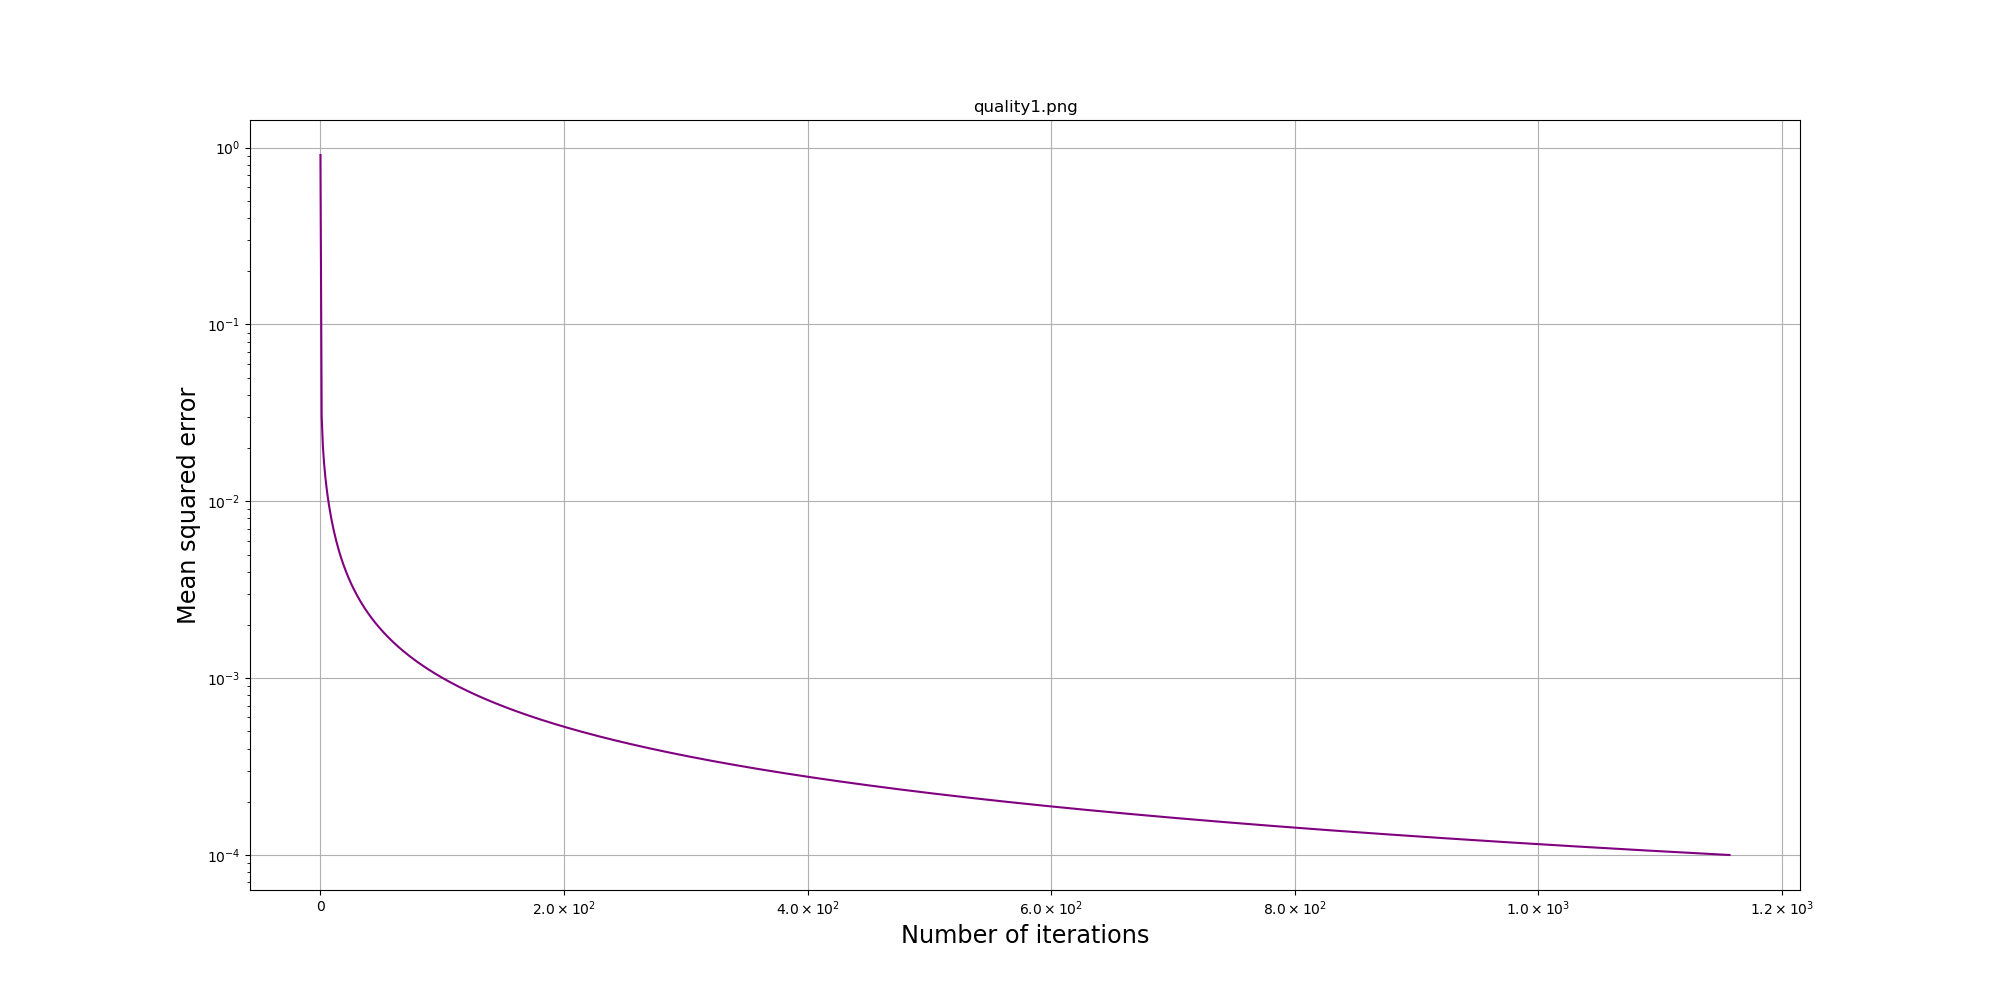
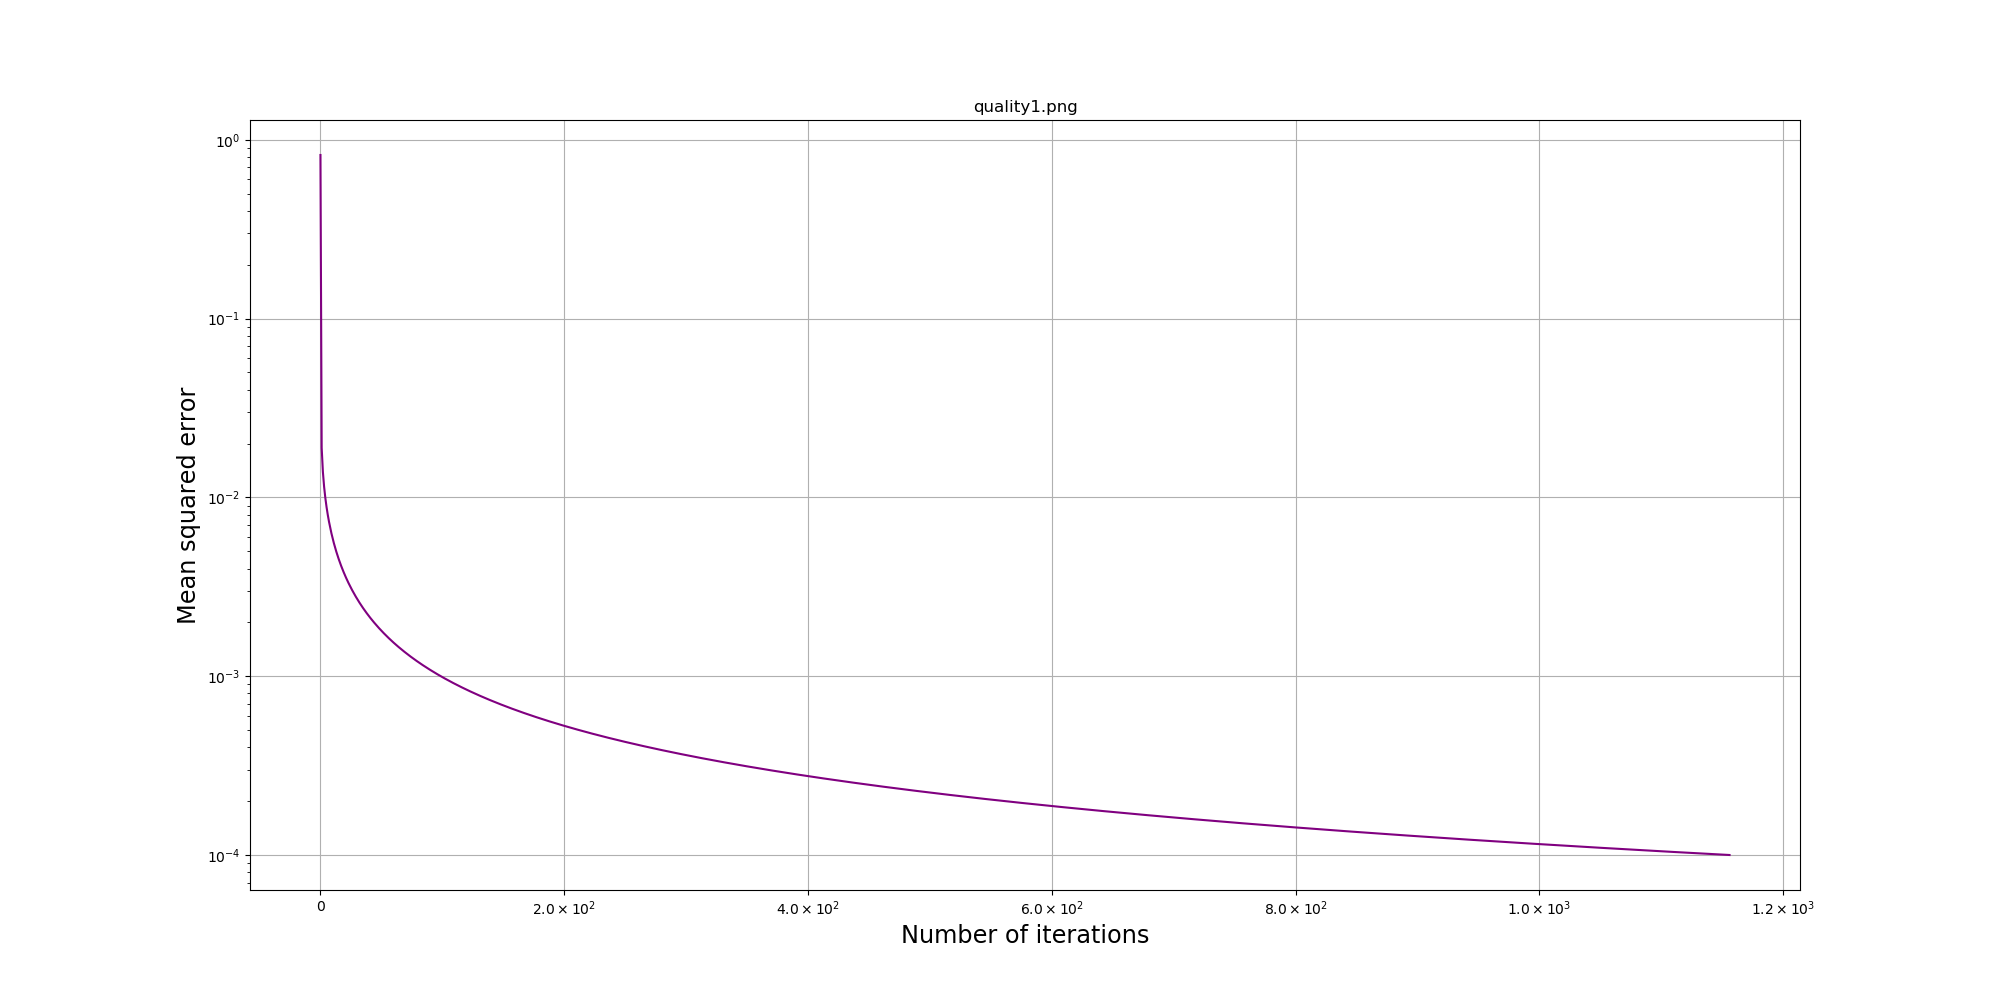
current state

diff --git a/Rozgrzewka_2/main.py b/Rozgrzewka_2/main.py
@@ -1,0 +1,96 @@
+#!/usr/bin/env python3
+import numpy as np
+from matplotlib.pyplot import cm
+from matplotlib.ticker import OldScalarFormatter, LogFormatter, ScalarFormatter
+from matplotlib import ticker
+import matplotlib.ticker as mtick
+import matplotlib.pyplot as plt
+from Perceptron import Perceptron
+import csv
+import sys
+
+
+def MSE(f, intput, output):
+    """
+    Mean squared error
+    """
+    ans = 0
+    for i in range(len(output)):
+        ans += ((f(intput[i])-output[i])**2)
+    return ans/len(output)
+
+
+def getData(intput):
+    reader = csv.reader(intput)
+    outX = []
+    outY = []
+    for row in reader:
+        i = list(map(float, row[0].split(";")))
+        outX.append(i[0:-1])
+        outY.append(i[-1])
+    return outX, outY
+
+
+def genName(intputFileName):
+    noExt = intputFileName.split(".")[0]
+    return "quality"+noExt[-1]+".png"
+
+
+def myticks(x, pos):
+    if x <= 0:
+        return "$0$"
+    exponent = int(np.log10(x))
+    coeff = x/10**exponent
+    return r"${:2.1f} \times 10^{{ {:2d} }}$".format(coeff, exponent)
+
+
+def plotChart(x, y, out):
+        # Set up plot
+    fig = plt.figure(figsize=(20, 10))
+    ax = fig.add_subplot(111)
+    ax.xaxis.set_major_formatter(ticker.FuncFormatter(myticks))
+    plt.grid()
+    plt.title(genName(sys.argv[1]))
+    # plt.ylim([0,0.02])
+    # plt.xscale("log")
+    plt.yscale("log")
+    plt.xlabel("Number of iterations", fontsize="xx-large")
+    plt.ylabel("Mean squared error", fontsize="xx-large")
+    ax.plot(x, y, color='purple')
+    plt.savefig(out)
+
+
+if __name__ == '__main__':
+    intput_file = open(sys.argv[1], "r+")
+    PointsX, PointsY = getData(intput_file)
+    intput_file.close()
+
+    perceptron = Perceptron(len(PointsX[0]))
+
+    error = 1
+    err_y = []
+    err_x = []
+    iter_number = 0
+    min_error_treshold = 10**(-4)
+    while error > min_error_treshold:
+        error = MSE(perceptron, PointsX, PointsY)
+        for x, y in zip(PointsX, PointsY):
+            perceptron.updateWeigths(x, y)
+
+        if iter_number%1000==0:
+            err_y.append(error)
+            err_x.append(iter_number)
+            print(iter_number, " ", error)
+        iter_number += 1
+        # print to stdout
+
+
+    # print to file
+    print(perceptron.w0[0], file=open(sys.argv[2], "w"))
+    for i in perceptron.W:
+            # output file name is in second argument
+        for j in i:
+            print(j, file=open(sys.argv[2], "a"))
+
+    # plot chart
+    plotChart(err_x, err_y, genName(sys.argv[1]))

diff --git a/Rozgrzewka_2/Perceptron.py b/Rozgrzewka_2/Perceptron.py
@@ -1,0 +1,35 @@
+import numpy as np
+
+
+class Perceptron(object):
+    def __init__(self, dimm_number):
+        self.W = np.random.rand(1, dimm_number)
+        self.w0 = np.random.rand()
+        # step aka learnig rate
+        self.step = 0.1
+
+    def sigmoid(self, X):
+        # Muliti-dimensional sigmoid
+        # output is matrix is 1x1,
+        return 1/(1+np.exp(-(np.inner(X, self.W)+self.w0)))
+
+    def grad(self, X, y):
+        # Notice that it is not multiplay by x_i
+        f = self.sigmoid
+        return (f(X)-y)*f(X)*(1-f(X))
+
+    def __call__(self, X):
+        # output of sigmoid is matrix is 1x1, so one value is returned
+        return self.sigmoid(X)[0]
+
+    def updateWeigths(self, X, y):
+        # basicly learnig
+        g = self.grad(X, y)*self.step
+        self.W -= g*X
+        self.w0 -= g
+
+    def map(self, x):
+        ans = []
+        for i in x:
+            ans.append(self.__call__(i))
+        return ans
